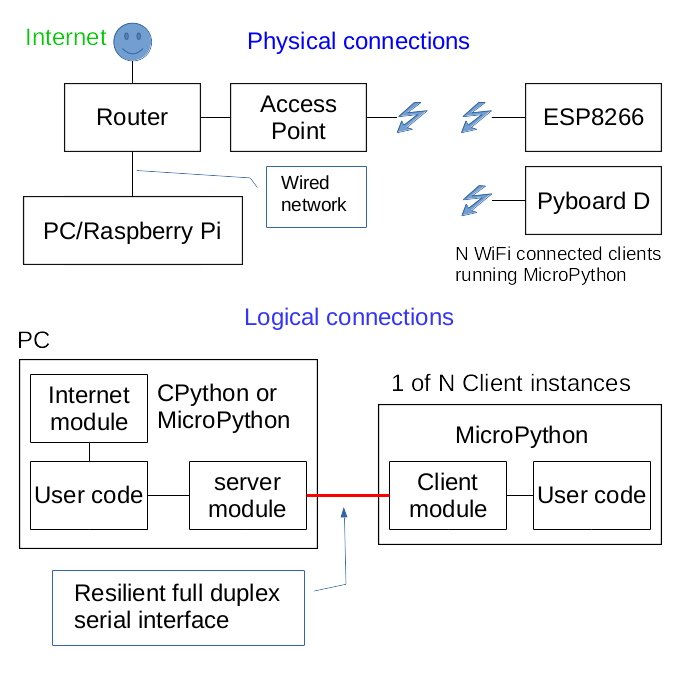
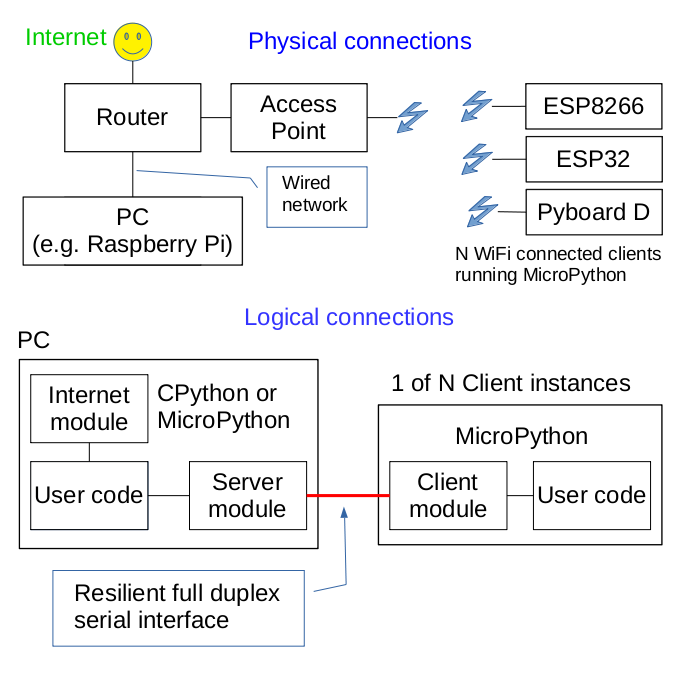
Document ESP32 support. Remove redundant ESP32 hacks.

diff --git a/client.py b/client.py
@@ -27,8 +27,6 @@ from micropython import const
 WDT_CANCEL = const(-2)
 WDT_CB = const(-3)
 
-ESP32 = platform == 'esp32' or platform == 'esp32_LoBo'
-
 # Message ID generator. Only need one instance on client.
 getmid = gmid()
 gc.collect()
@@ -151,11 +149,6 @@ class Client:
         s = self._sta_if
         if s.isconnected():
             return
-        if ESP32:  # Is this still needed?
-            s.disconnect()
-            utime.sleep_ms(20)  # Hopefully no longer required
-            await asyncio.sleep(1)
-
         while True:  # For the duration of an outage
             s.connect(self._ssid, self._pw)
             if await self._got_wifi(s):
@@ -175,8 +168,6 @@ class Client:
     # Await a WiFi connection for 10 secs.
     async def _got_wifi(self, s):
         for _ in range(20):  # Wait t s for connect. If it fails assume an outage
-            if ESP32:  # Hopefully no longer needed
-                utime.sleep_ms(20)
             await asyncio.sleep_ms(500)
             self._feed(0)
             if s.isconnected():

diff --git a/README.md b/README.md
@@ -1,10 +1,10 @@
 # Introduction
 
 This library provides a resilient full duplex communication link between a WiFi
-connected board and a server on the wired LAN. The board may be an ESP8266 or
-other target including the Pyboard D. The design is such that the code can run
-for indefinite periods. Temporary WiFi or server outages are tolerated without
-message loss.
+connected board and a server on the wired LAN. The board may be an ESP8266,
+ESP32 or other target including the Pyboard D. The design is such that the code
+can run for indefinite periods. Temporary WiFi or server outages are tolerated
+without message loss.
 
 The API is simple and consistent between client and server applications,
 comprising `write` and `readline` methods. Guaranteed message delivery is
@@ -22,9 +22,8 @@ reliability is therefore paramount. Security is also a factor for endpoints
 exposed to the internet.
 
 Under MicroPython the available hardware for endpoints is limited. Testing has
-been done on the ESP8266 and the Pyboard D. The ESP32 running official firmware
-V1.10 remains incapable of coping with WiFi outages: see
-[Appendix 1 ESP32](./README.md#appendix-1-esp32).
+been done on the ESP8266, ESP32 and the Pyboard D. The ESP32 must run firmware
+dated on or after 25th March 2019.
 
 The ESP8266 remains as a readily available inexpensive device which, with care,
 is capable of long term reliable operation. It does suffer from limited
@@ -114,7 +113,6 @@ but one which persists through outages and offers guaranteed message delivery.
  10. [How it works](./README.md#10-how-it-works)  
   10.1 [Interface and client module](./README.md#101-interface-and-client-module)  
   10.2 [Server module](./README.md#102-server-module)  
- [Appendix 1 ESP32](./README.md#appendix-1-esp32)
 
 # 2. Design
 
@@ -172,7 +170,8 @@ installation on that platform.
 
 #### Firmware/Dependency
 
-On all client platforms firmware must be V1.10 or later.
+Firmware must be V1.10 or later; on ESP32 it must be more recent, specifically
+builds dated 25th March 2019 or later.
 
 On ESP8266 it is easiest to use the latest release build of firmware: such
 builds incorporate `uasyncio` as frozen bytecode. Daily builds do not.
@@ -190,7 +189,8 @@ On ESP8266 it is necessary to
 
 #### Preconditions
 
-The demo programs store client configuration data in a file `local.py`. This
+The demo programs store client configuration data in a file `local.py`. Each
+demo has its own `local.py` located in the directory of the demo code. This
 contains the following constants which should be edited to match local
 conditions:
 
@@ -312,8 +312,9 @@ from micropython_iot.qos import c_qos
 #### The fast qos demo
 
 This tests the option of concurrent `qos` writes. This is an advanced feature
-discussed in [section 7.1](./README.md#71-the-wait-argument). To run the demo,
-on the server navigate to the parent directory of `micropython_iot` and run:
+discussed in [section 7.1](./README.md#71-the-wait-argument). This demo runs
+but is not resilient on ESP32. See the above link. To run the demo, on the
+server navigate to the parent directory of `micropython_iot` and run:
 ```
 python3 -m micropython_iot.qos.s_qos_fast
 ```
@@ -753,6 +754,10 @@ number of such `qos` messages sent in quick succession: on ESP8266 clients
 buffer overflows can occur. Demands on `uasyncio` are increased: it may be
 necessary to amend the default queue sizes in `get_event_loop`.
 
+The ESP32 is not resilient under these circumstances. Setting `wait=False` is
+not recommended. If used, applications should be tested to verify resilience in
+the face of WiFi outages.
+
 If messages are sent with `wait=False` there is a chance that they may not be
 received in the order in which they were sent. As described above, in the event
 of `qos` message loss, retransmission occurs after a timeout period has
@@ -888,19 +893,3 @@ messages to the client. Application code which blocks the scheduler can cause
 this not to be scheduled in a timely fashion with the result that the client
 declares an outage and disconnects. The consequence is a sequence of disconnect
 and reconnect events even in the presence of a strong WiFi signal.
-
-# Appendix 1 ESP32
-
-Using official firmware V1.10 the ESP32 seems incapable of recovering from an
-outage. The client initially connects and runs. When an outage occurs this is
-detected in the usual way by a timeout. Unfortunately I failed to discover a
-strategy for detecting when the outage was over. The station interface
-`isconnected` method always returns `True` even if you explicitly disconnect.
-You can issue a `connect` statement but I could find no way to determine
-whether the attempt was successful.
-
-In my view the ESP32 running official MicroPython remains unsuitable for a
-resilient link.
-
-Contributions and suggestions are invited. Also any test results for the
-Loboris port.
